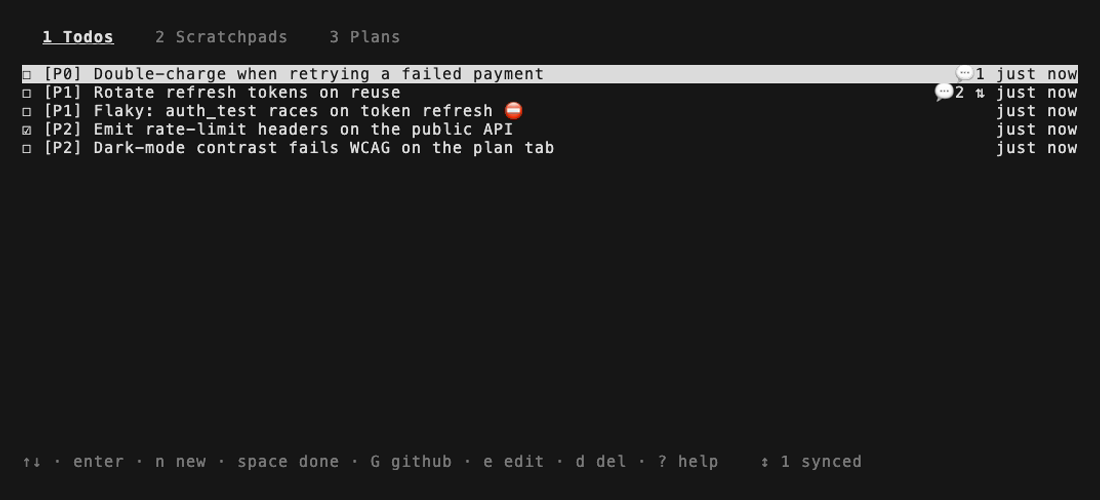
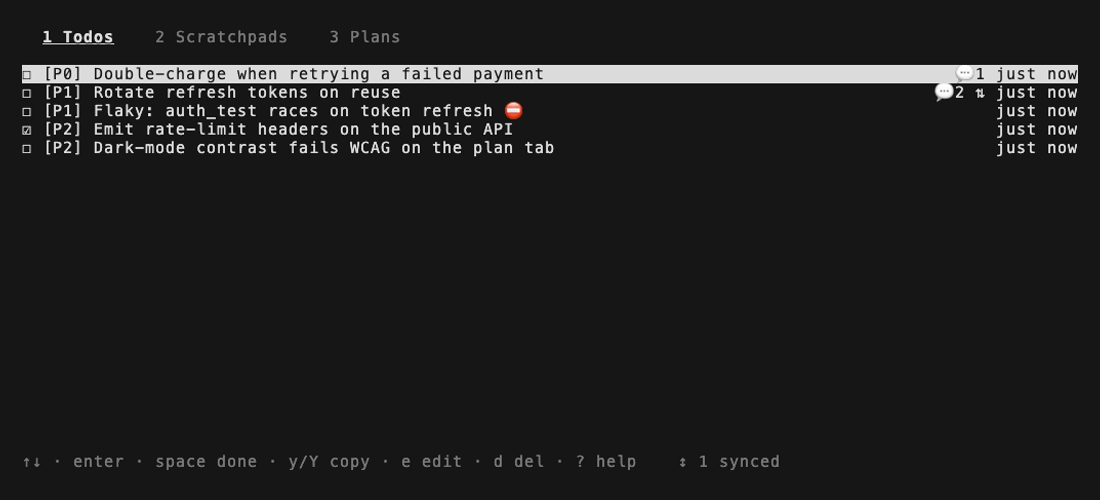
docs: blockers feature in README + demos; pin herdr 0.8.0
- README: blocker paragraph in the quick tour (⛔ list marker, ⛓ meta
  segment, b/click picker) with a new blockers.png still
- blockers.tape wired into record-demo.sh; all demos re-recorded on the
  v0.1.8 binary
- CLAUDE.md: herdr gotchas pin bumped to 0.8.0 (verify-herdr.sh PASS,
  #1295 PTY-backpressure fix confirmed sub-ms under input flood)

Claude-Session: https://claude.ai/code/session_01B2FVQjxoa7rDXXuWe6oqdw

Changed region(s): [[0.1236, 0.9, 0.4945, 0.96], [0.6182, 0.9, 0.8036, 0.93], [0.5255, 0.9, 0.5564, 0.93]]

diff --git a/README.md b/README.md
@@ -171,6 +171,13 @@ The TUI carries the same work across tabs — todos, scratchpads, and a read-onl
 > A bare `docs/plans` still pulls every `.md` beneath it. `.gitignore`'d files never
 > surface.
 
+Blockers ride along in the TUI too: a blocked todo carries a ⛔ in the list, read
+mode shows a `⛓ blockers: N` segment with each blocker's title beneath it, and `b`
+(or a click on that segment) opens a checkbox picker to set them — space toggles,
+enter saves. Completed todos aren't offered as new blockers.
+
+![The blocker picker open on the flaky-test todo: its existing blocker is checked, and the ⛔ marks the blocked row in the list behind](docs/media/blockers.png)
+
 ## Sync todos with GitHub issues
 
 A todo can be mirrored to a GitHub issue and kept in step with it. Opt in

diff --git a/CLAUDE.md b/CLAUDE.md
@@ -74,7 +74,7 @@ and the binary is then SIGKILLed at exec (`Killed: 9`, exit 137, no output) even
 though `codesign -v` reports "valid on disk". A fresh inode (rm then cp) avoids it;
 `codesign -f -s - bin/tally` also fixes an already-broken copy.
 
-## herdr integration gotchas (verified live against herdr 0.7.5)
+## herdr integration gotchas (verified live against herdr 0.8.0)
 
 - Panes open with cwd = the user's project; actions run with cwd = the plugin root.
   Pane commands must locate the binary via `$HERDR_PLUGIN_ROOT` (see manifest).
